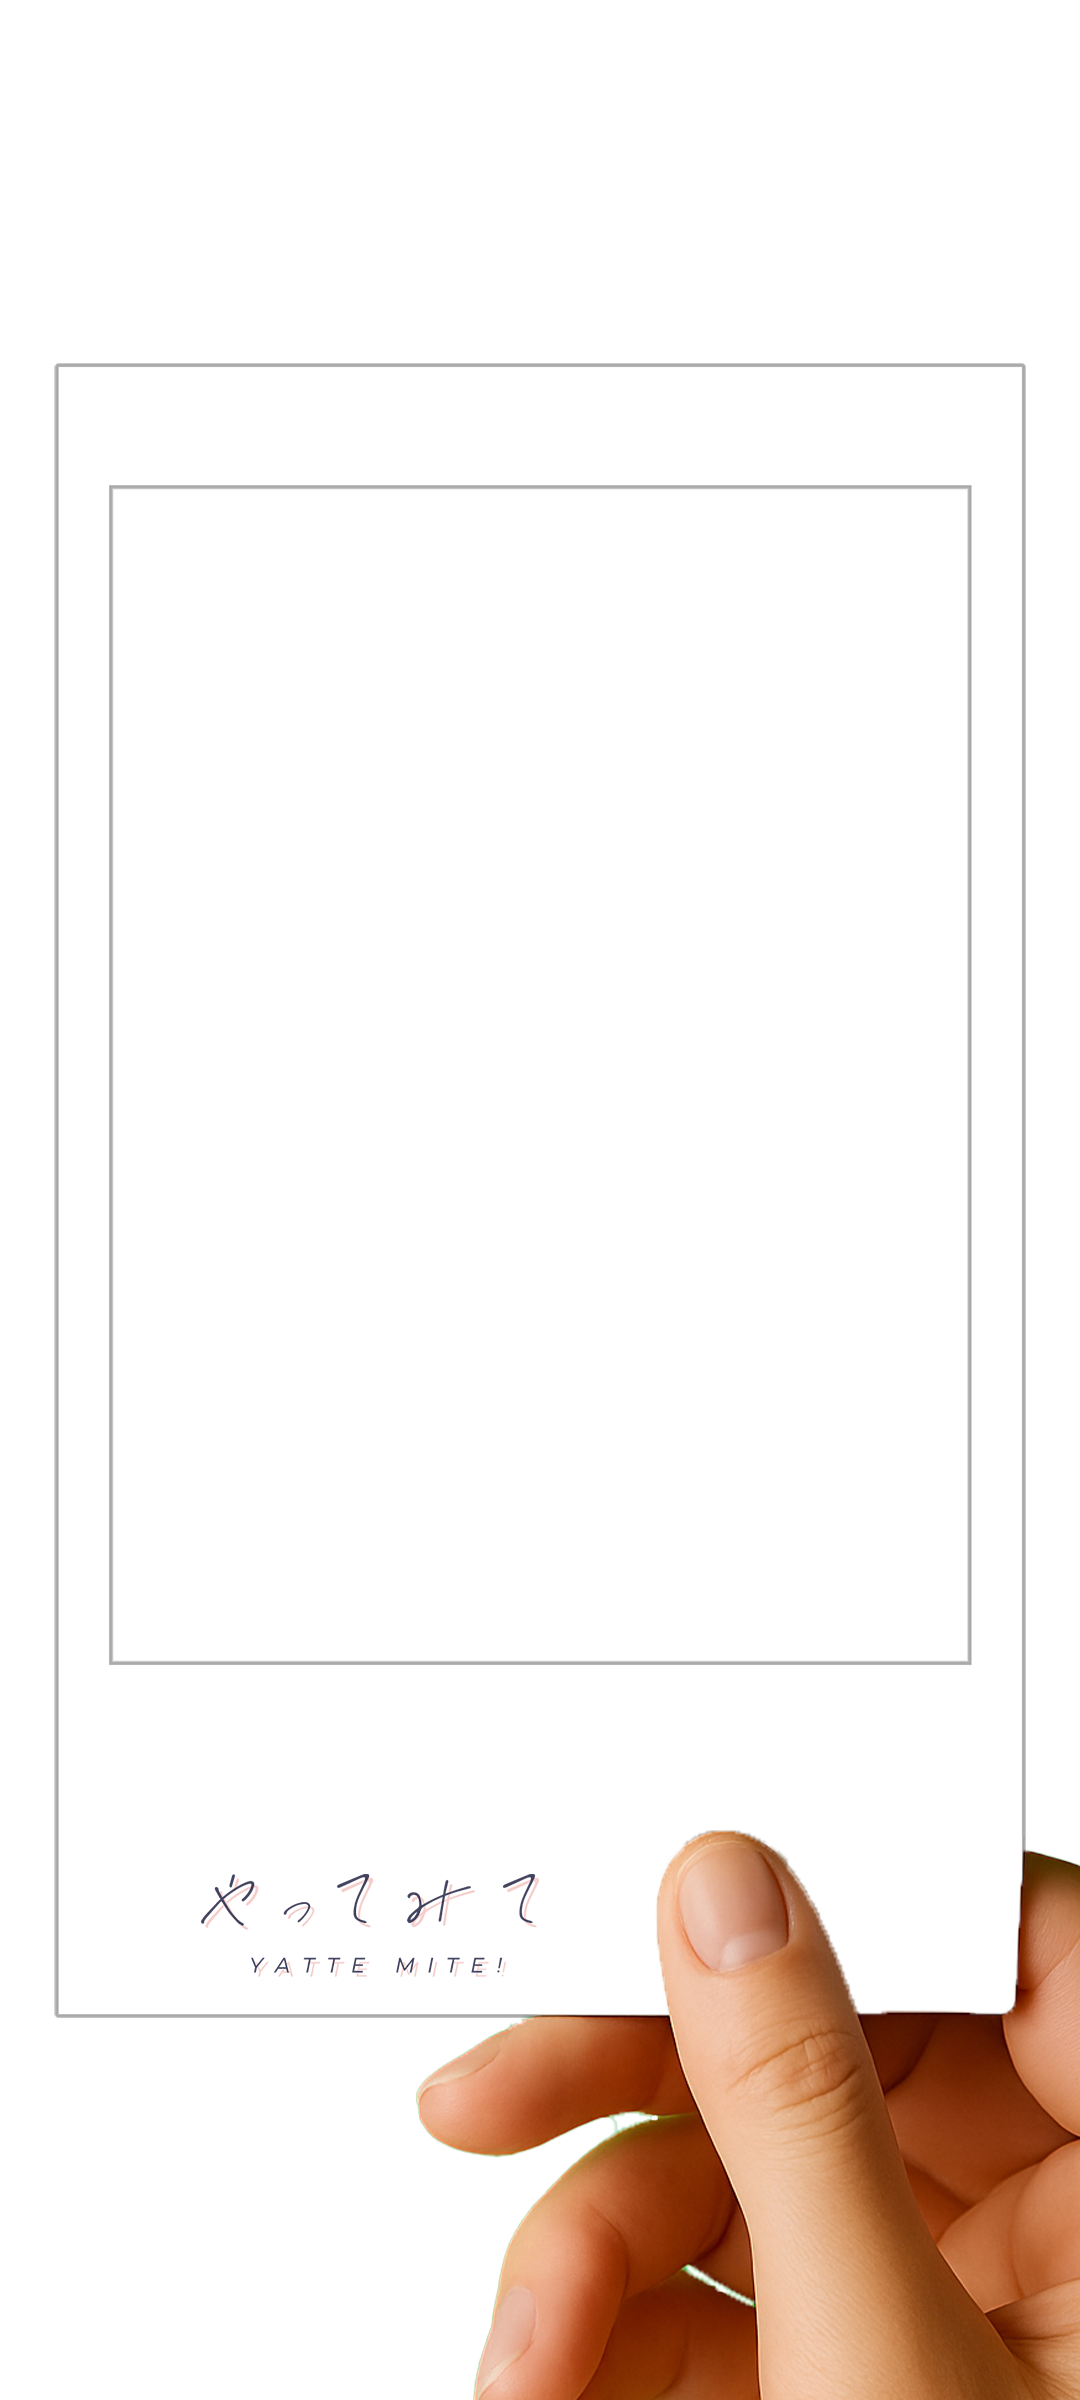
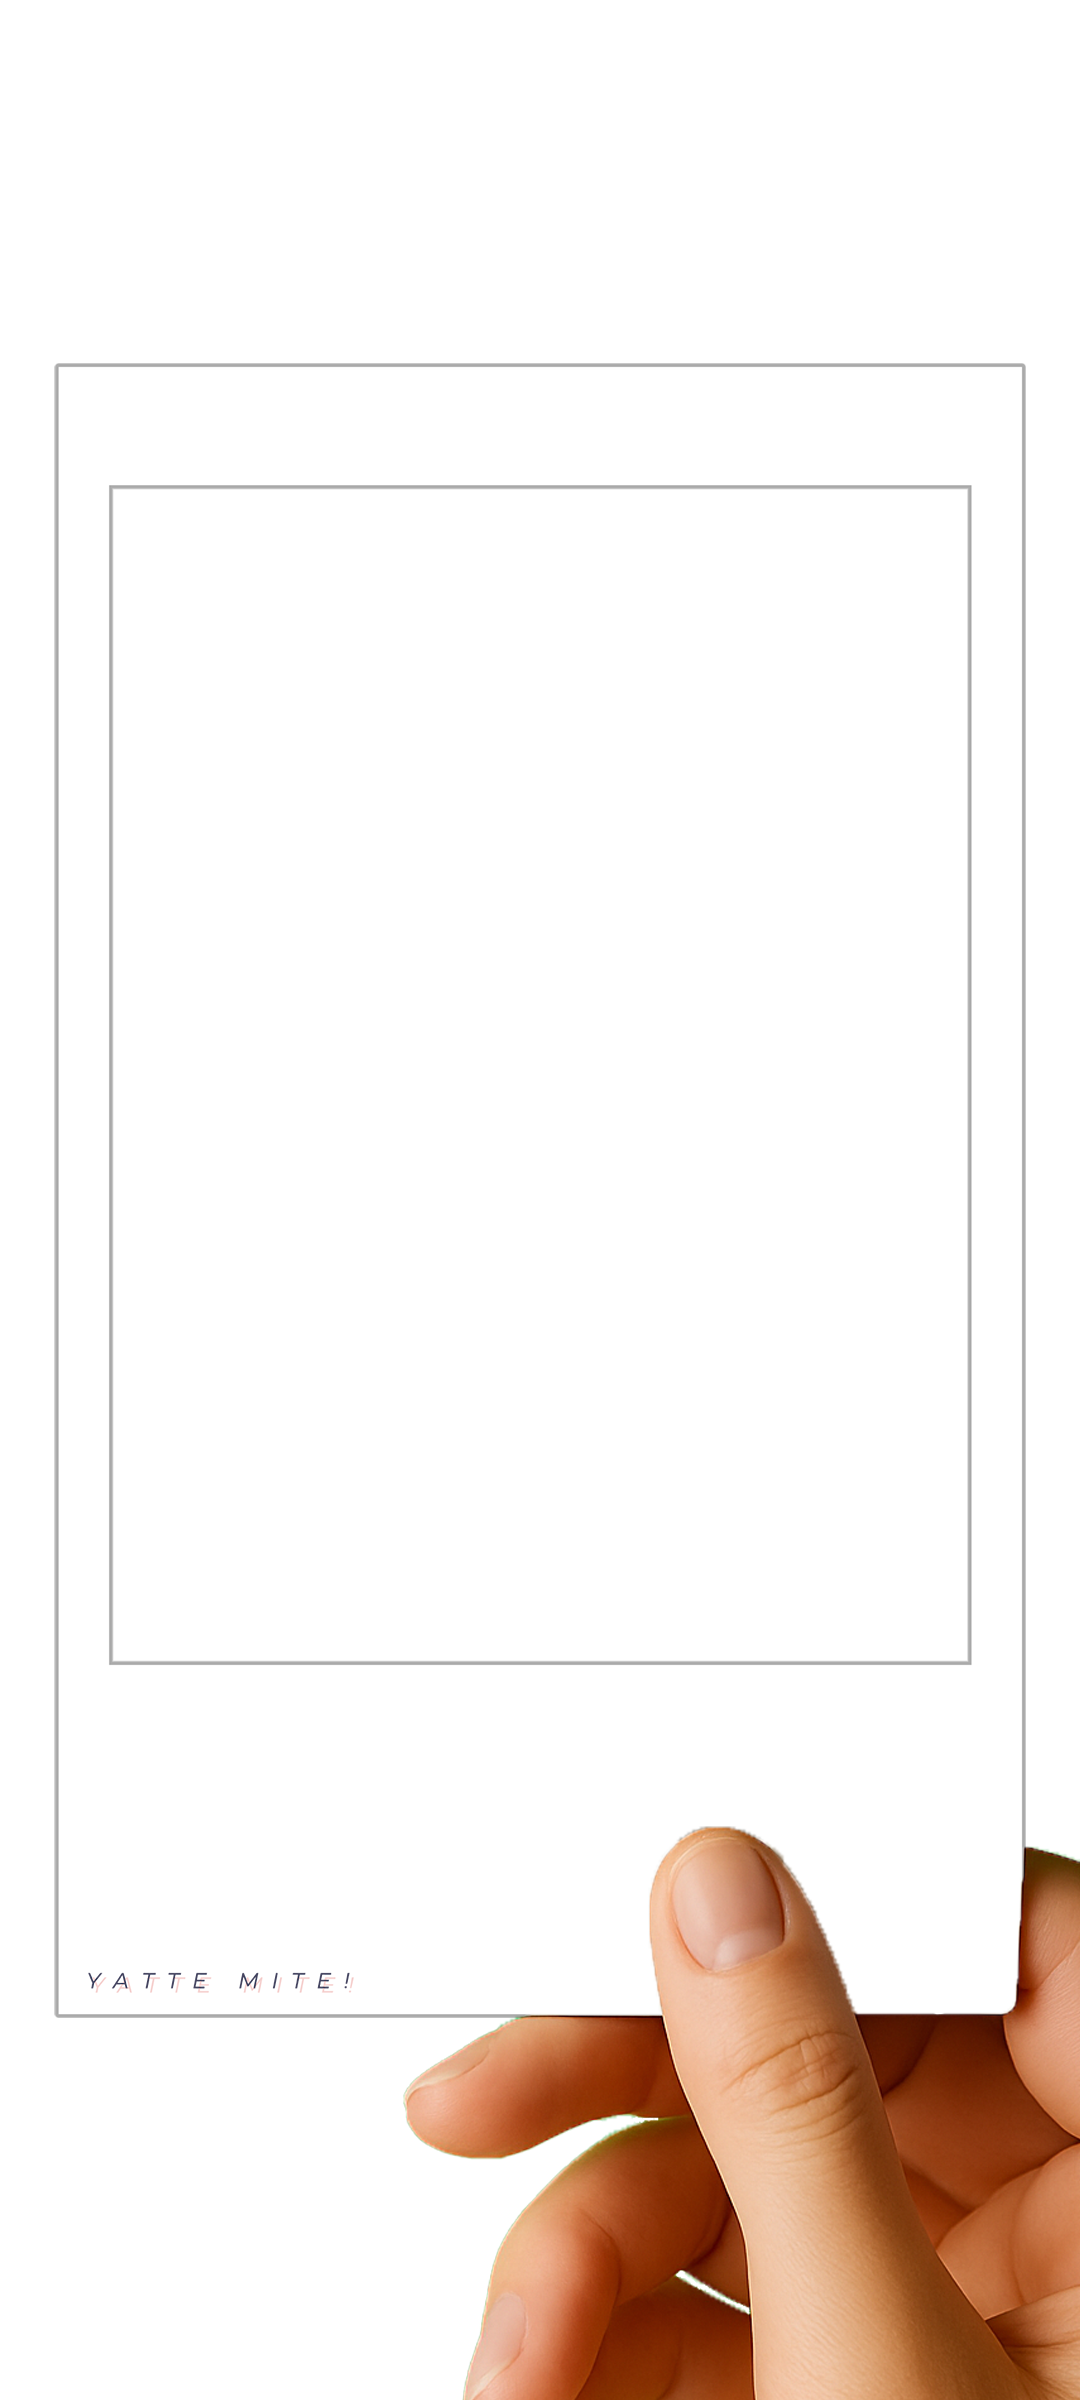
実機微調整

diff --git a/src/pages/CameraPage.tsx b/src/pages/CameraPage.tsx
@@ -86,13 +86,11 @@ const CameraPage = () => {
     let drawW, drawH, offsetX, offsetY;
 
     if (imgRatio > canvasRatio) {
-      // 横長 → 高さフィット
       drawH = H;
       drawW = H * imgRatio;
       offsetX = (W - drawW) / 2;
       offsetY = 0;
     } else {
-      // 縦長 → 幅フィット
       drawW = W;
       drawH = W / imgRatio;
       offsetX = 0;
@@ -105,19 +103,32 @@ const CameraPage = () => {
     const frame = await loadImage("/frames/hand.png");
     ctx.drawImage(frame, 0, 0, W, H);
 
+    // ---- 撮影中のテキスト位置を取得 ----
+    const textElem = document.querySelector(".card-text") as HTMLElement;
+    const rect = textElem.getBoundingClientRect();
+
+    // ---- 画面→Canvas の比率 ----
+    const scaleX = W / window.innerWidth;
+    const scaleY = H / window.innerHeight;
+
+    // ---- Canvas上の座標に変換 ----
+    const drawX = (rect.left + rect.width / 2) * scaleX;
+    const offsetPx = 4;
+    const drawY = (rect.top + rect.height * 0.6 + offsetPx) * scaleY;
+
     // ---- フォントロード ----
     await document.fonts.load("48px 'Zen Kurenaido'");
+    const fontSize = W * 0.05;
 
-    // ---- テキスト ----
-    ctx.font = "48px 'Zen Kurenaido'";
+    // ---- お題テキスト（撮影時と完全一致）----
+    ctx.font = `${fontSize}px 'Zen Kurenaido'`;
     ctx.fillStyle = "#333";
     ctx.textAlign = "center";
-    ctx.fillText(taskText, W / 2, 1800);
+    ctx.fillText(taskText, drawX, drawY);
 
     const mergedBase64 = canvas.toDataURL("image/jpeg", 0.9);
     const fileName = `yatemite_${Date.now()}.jpg`;
 
-    // ----- ★ ONLY ONE: ギャラリーへ保存 -----
     const resultUri = await saveToGallery(mergedBase64, fileName);
     console.log("Saved to gallery:", resultUri);
 

diff --git a/src/App.css b/src/App.css
@@ -72,8 +72,7 @@ p {
   ロゴ
 ------------------------------ */
 .logo {
-  width: 320px;
-  margin-bottom: 1.5rem;
+  width: 260px;
 }
 
 /* ------------------------------
@@ -96,7 +95,7 @@ button:hover {
 .button-group {
   display: flex;
   gap: 2.4rem;
-  margin-bottom: 2.4rem;
+  margin: 1rem auto 2.4rem;
   opacity: 0;
   transition: opacity 0.3s ease;
 }
@@ -155,6 +154,7 @@ button:hover {
   font-family: sans-serif;
   z-index: 100;
   box-sizing: border-box;
+  padding-bottom: calc(24px + env(safe-area-inset-bottom));
 }
 
 /* ------------------------------
@@ -165,7 +165,7 @@ button:hover {
   flex-direction: column;
   align-items: center;
   width: 280px;
-  margin: 1.6rem 0 5rem;
+  margin: 1rem 0 4rem;
   border: 16px solid #fff;
   border-top: 32px solid #fff;
   border-radius: 4px;

diff --git a/src/pages/CameraPage.css b/src/pages/CameraPage.css
@@ -89,7 +89,7 @@
 
 .back-button {
   position: absolute;
-  top: 24px;
+  top: 40px;
   left: 10px;
   z-index: 99;
   background: rgba(0, 0, 0, 0.4); /* ← 半透明黒の丸背景でカメラでも見やすい */
